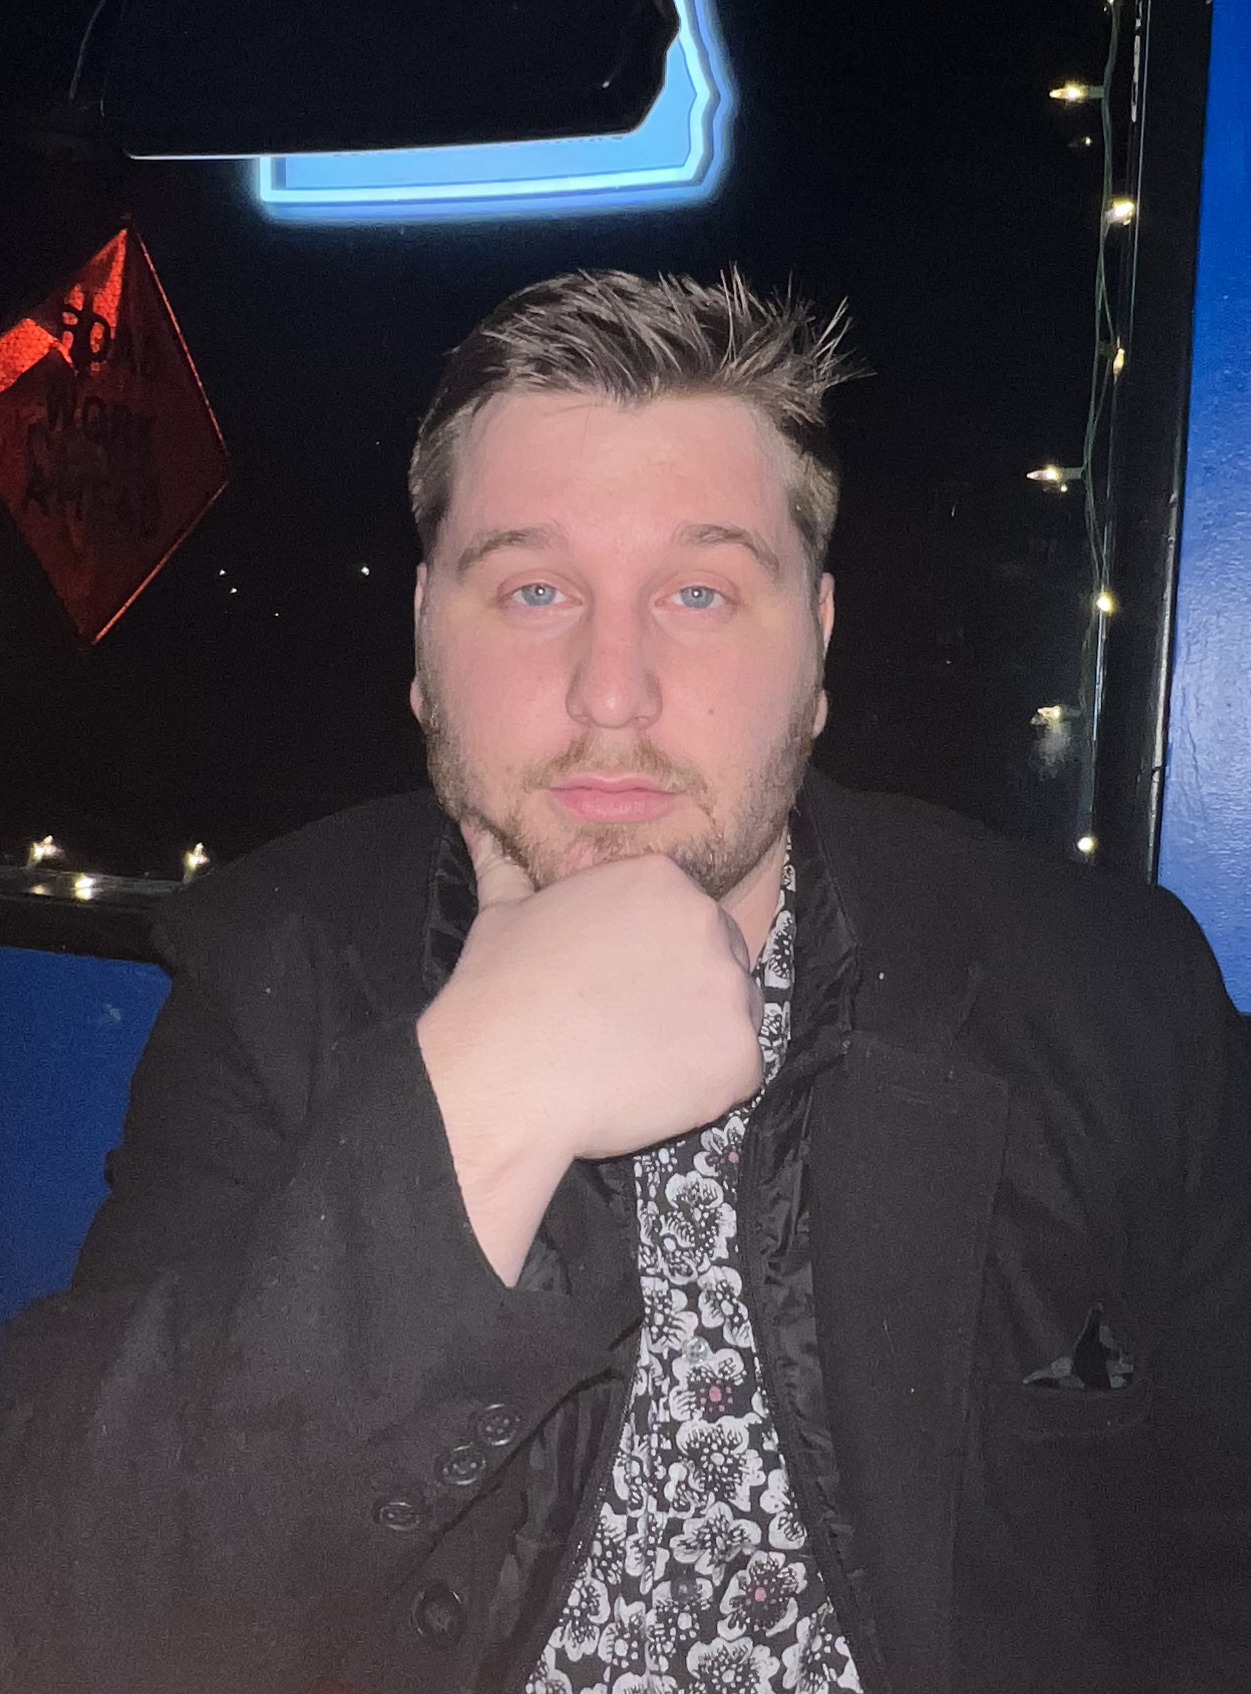
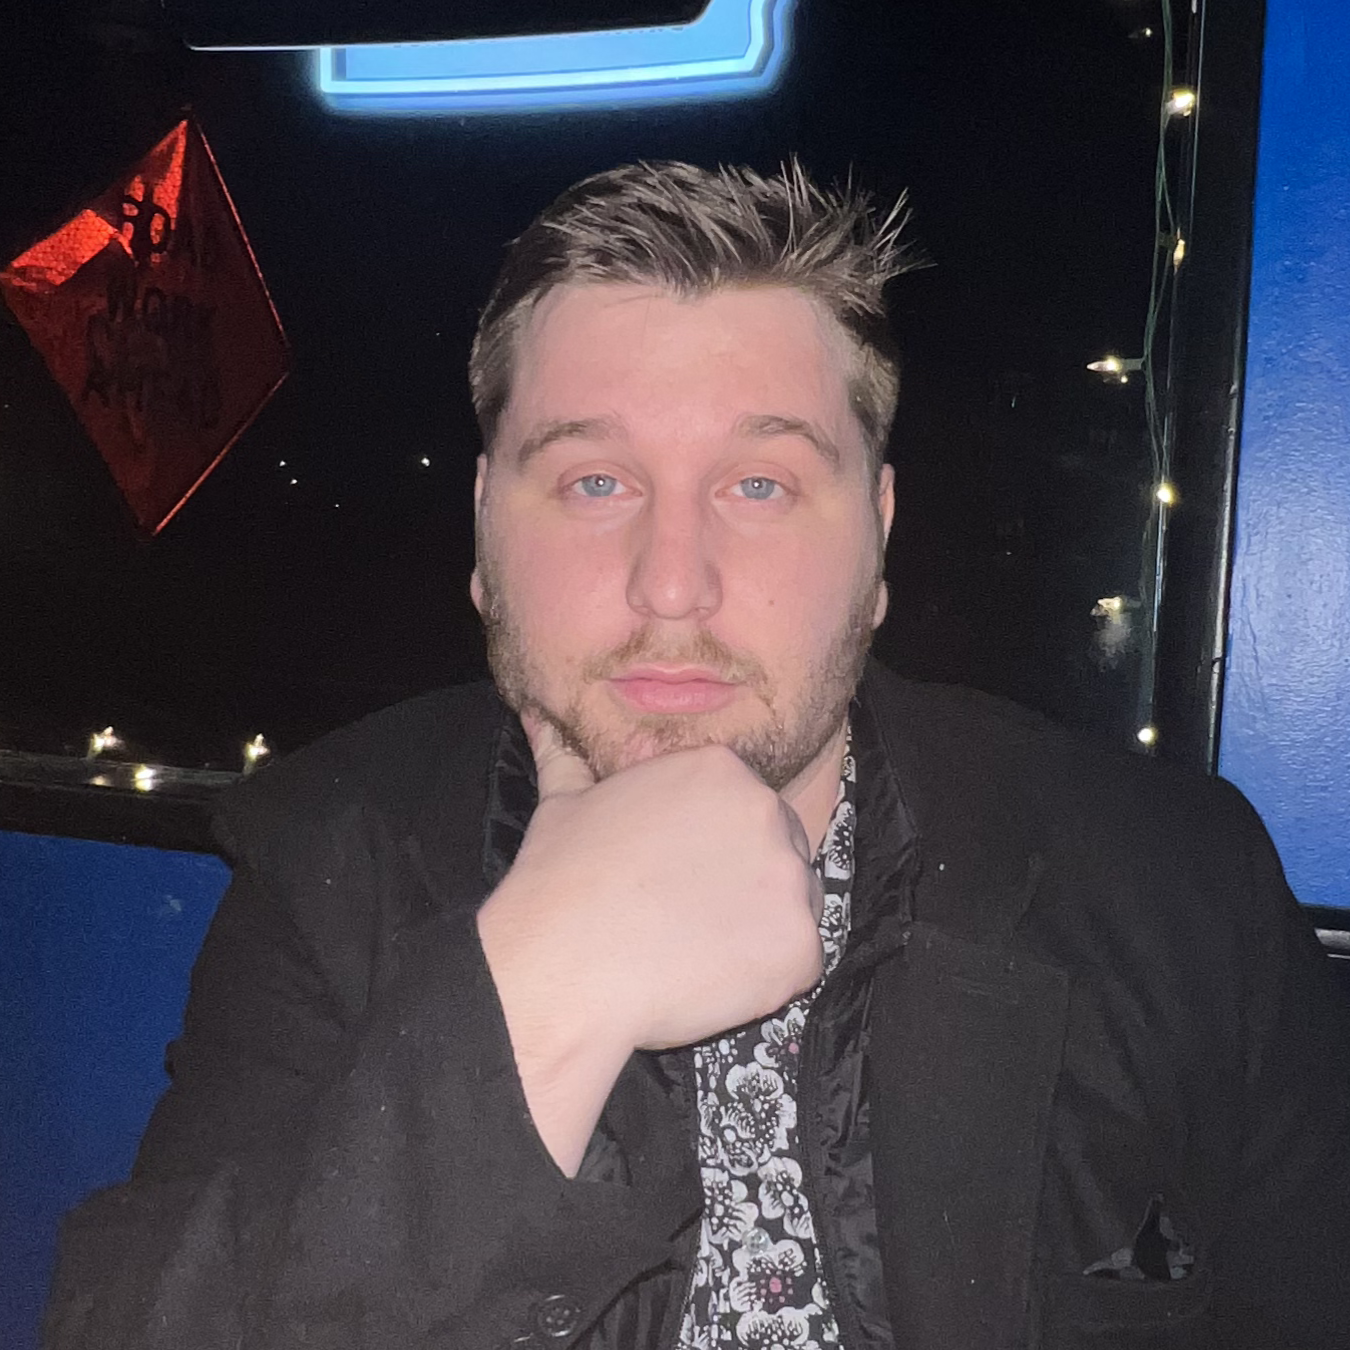
rounded Profile Picture

diff --git a/index.html b/index.html
@@ -231,7 +231,7 @@ input[type="checkbox"]{
     </div>
     <div class="container" style="background-color: rgb(240, 240, 240); width: 75%; height: 1100px;">
         <span class="container">
-            <img src="./views/images/profile_picture.png" alt="Riley Prince" style="height: 500px; padding: 40px;">
+            <img src="./views/images/profile_picture.png" alt="Riley Prince" style="height: 500px; padding: 40px; border-radius: 50%;">
         </span>
         <div style="Margin: auto; width: 90%;">
             <p style="padding: 25px;">
